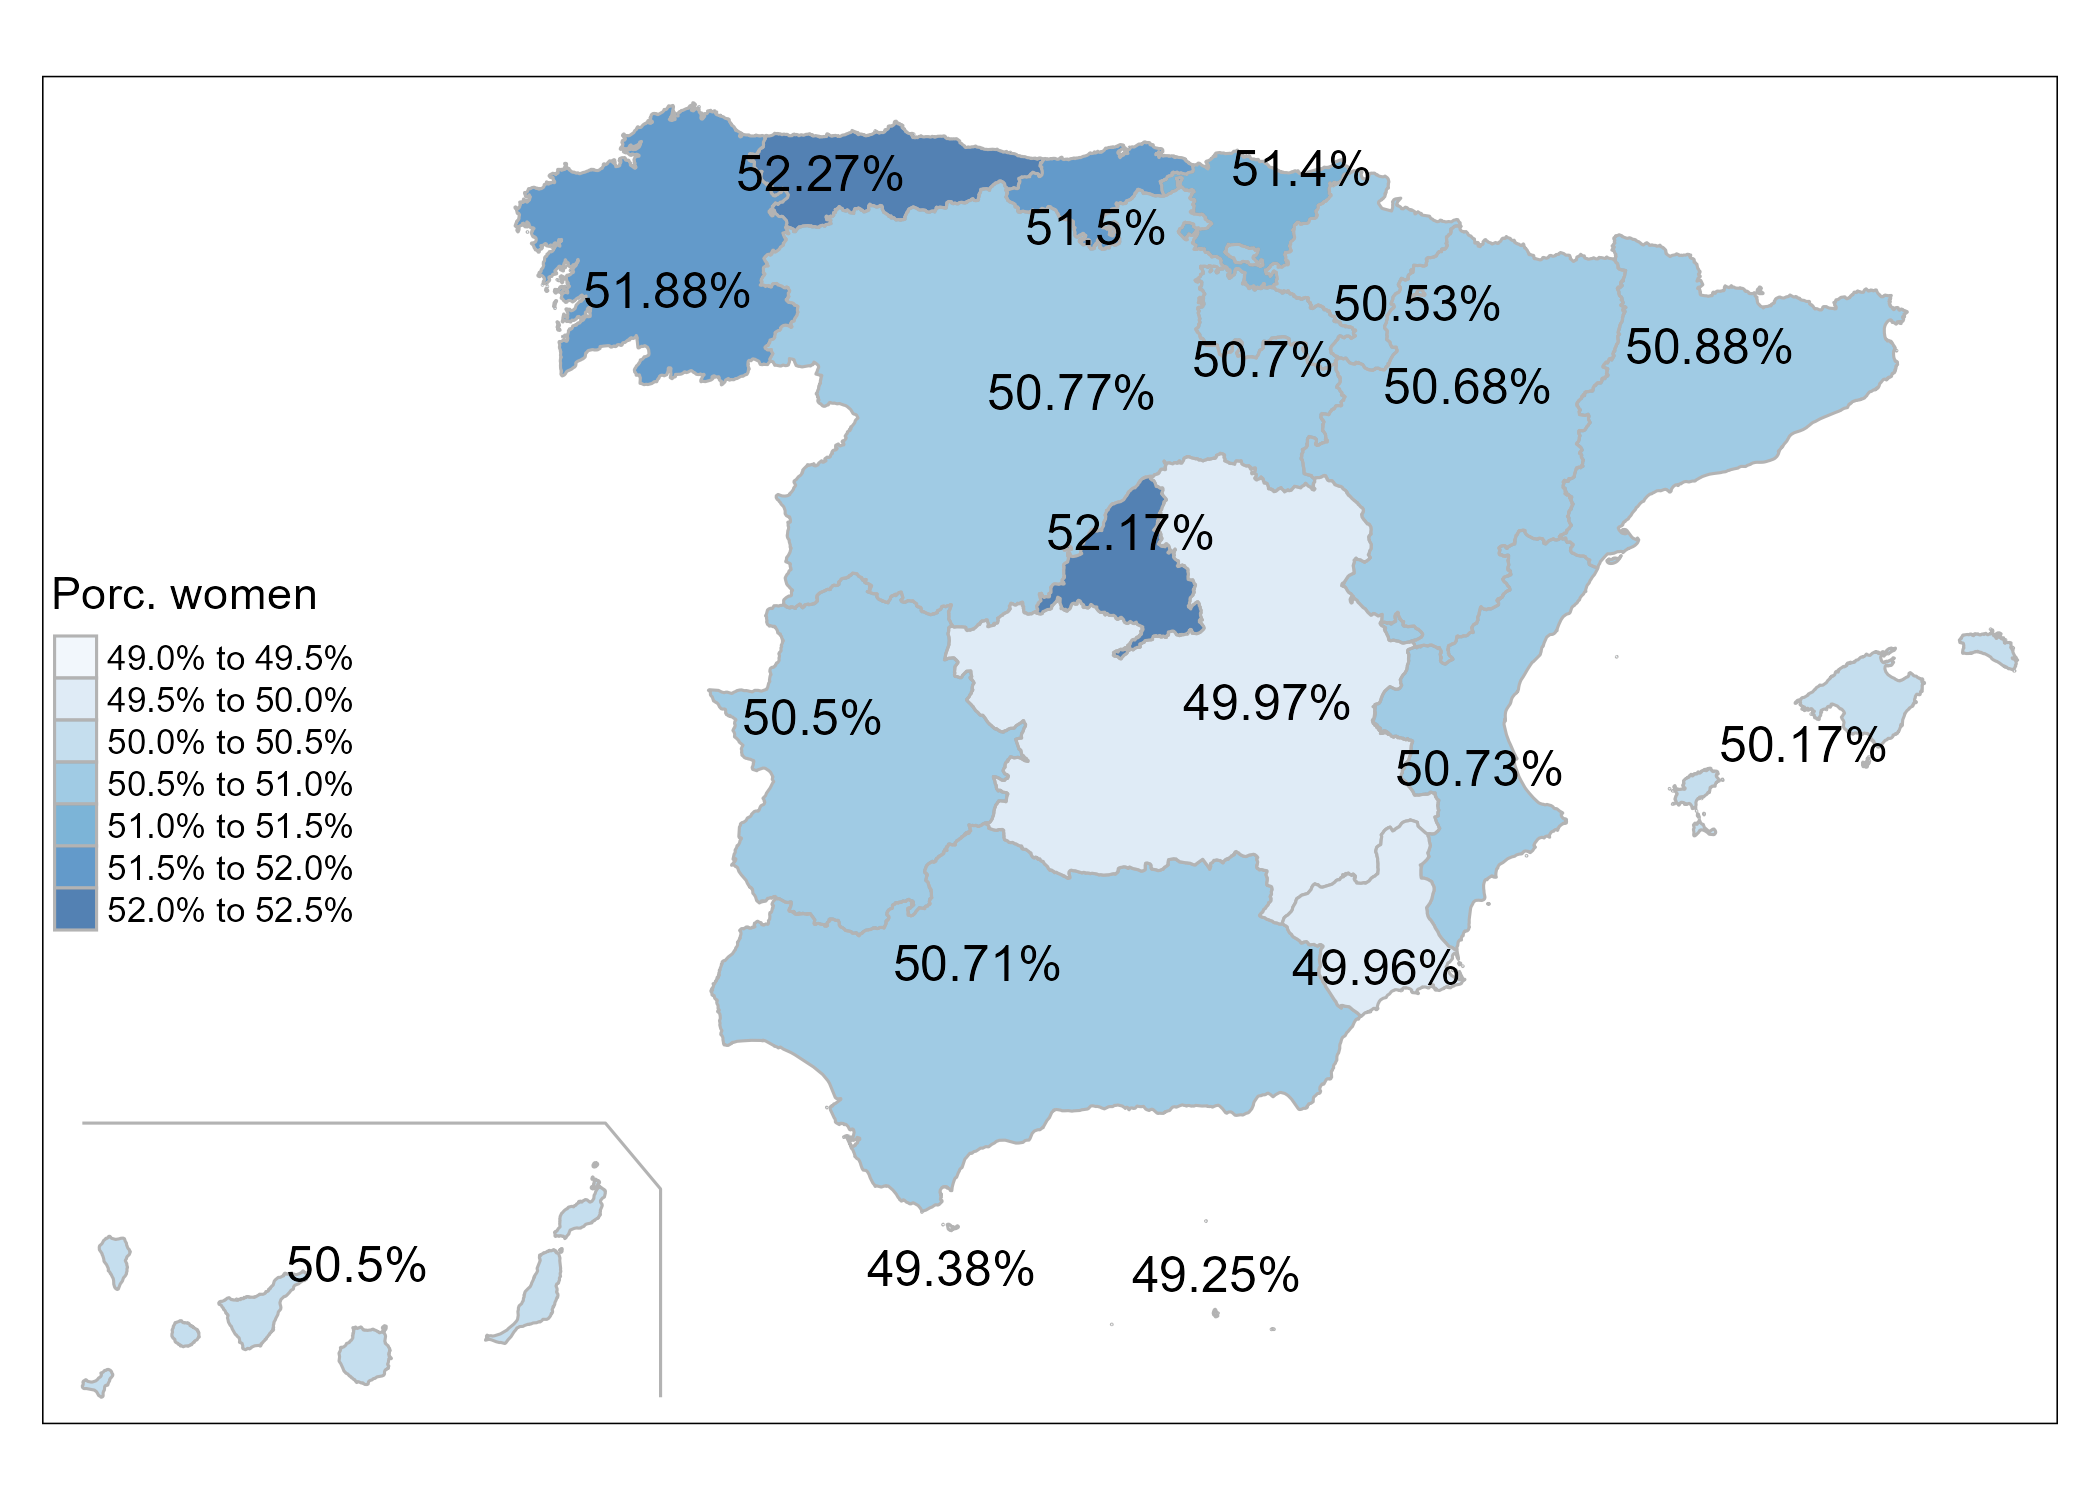
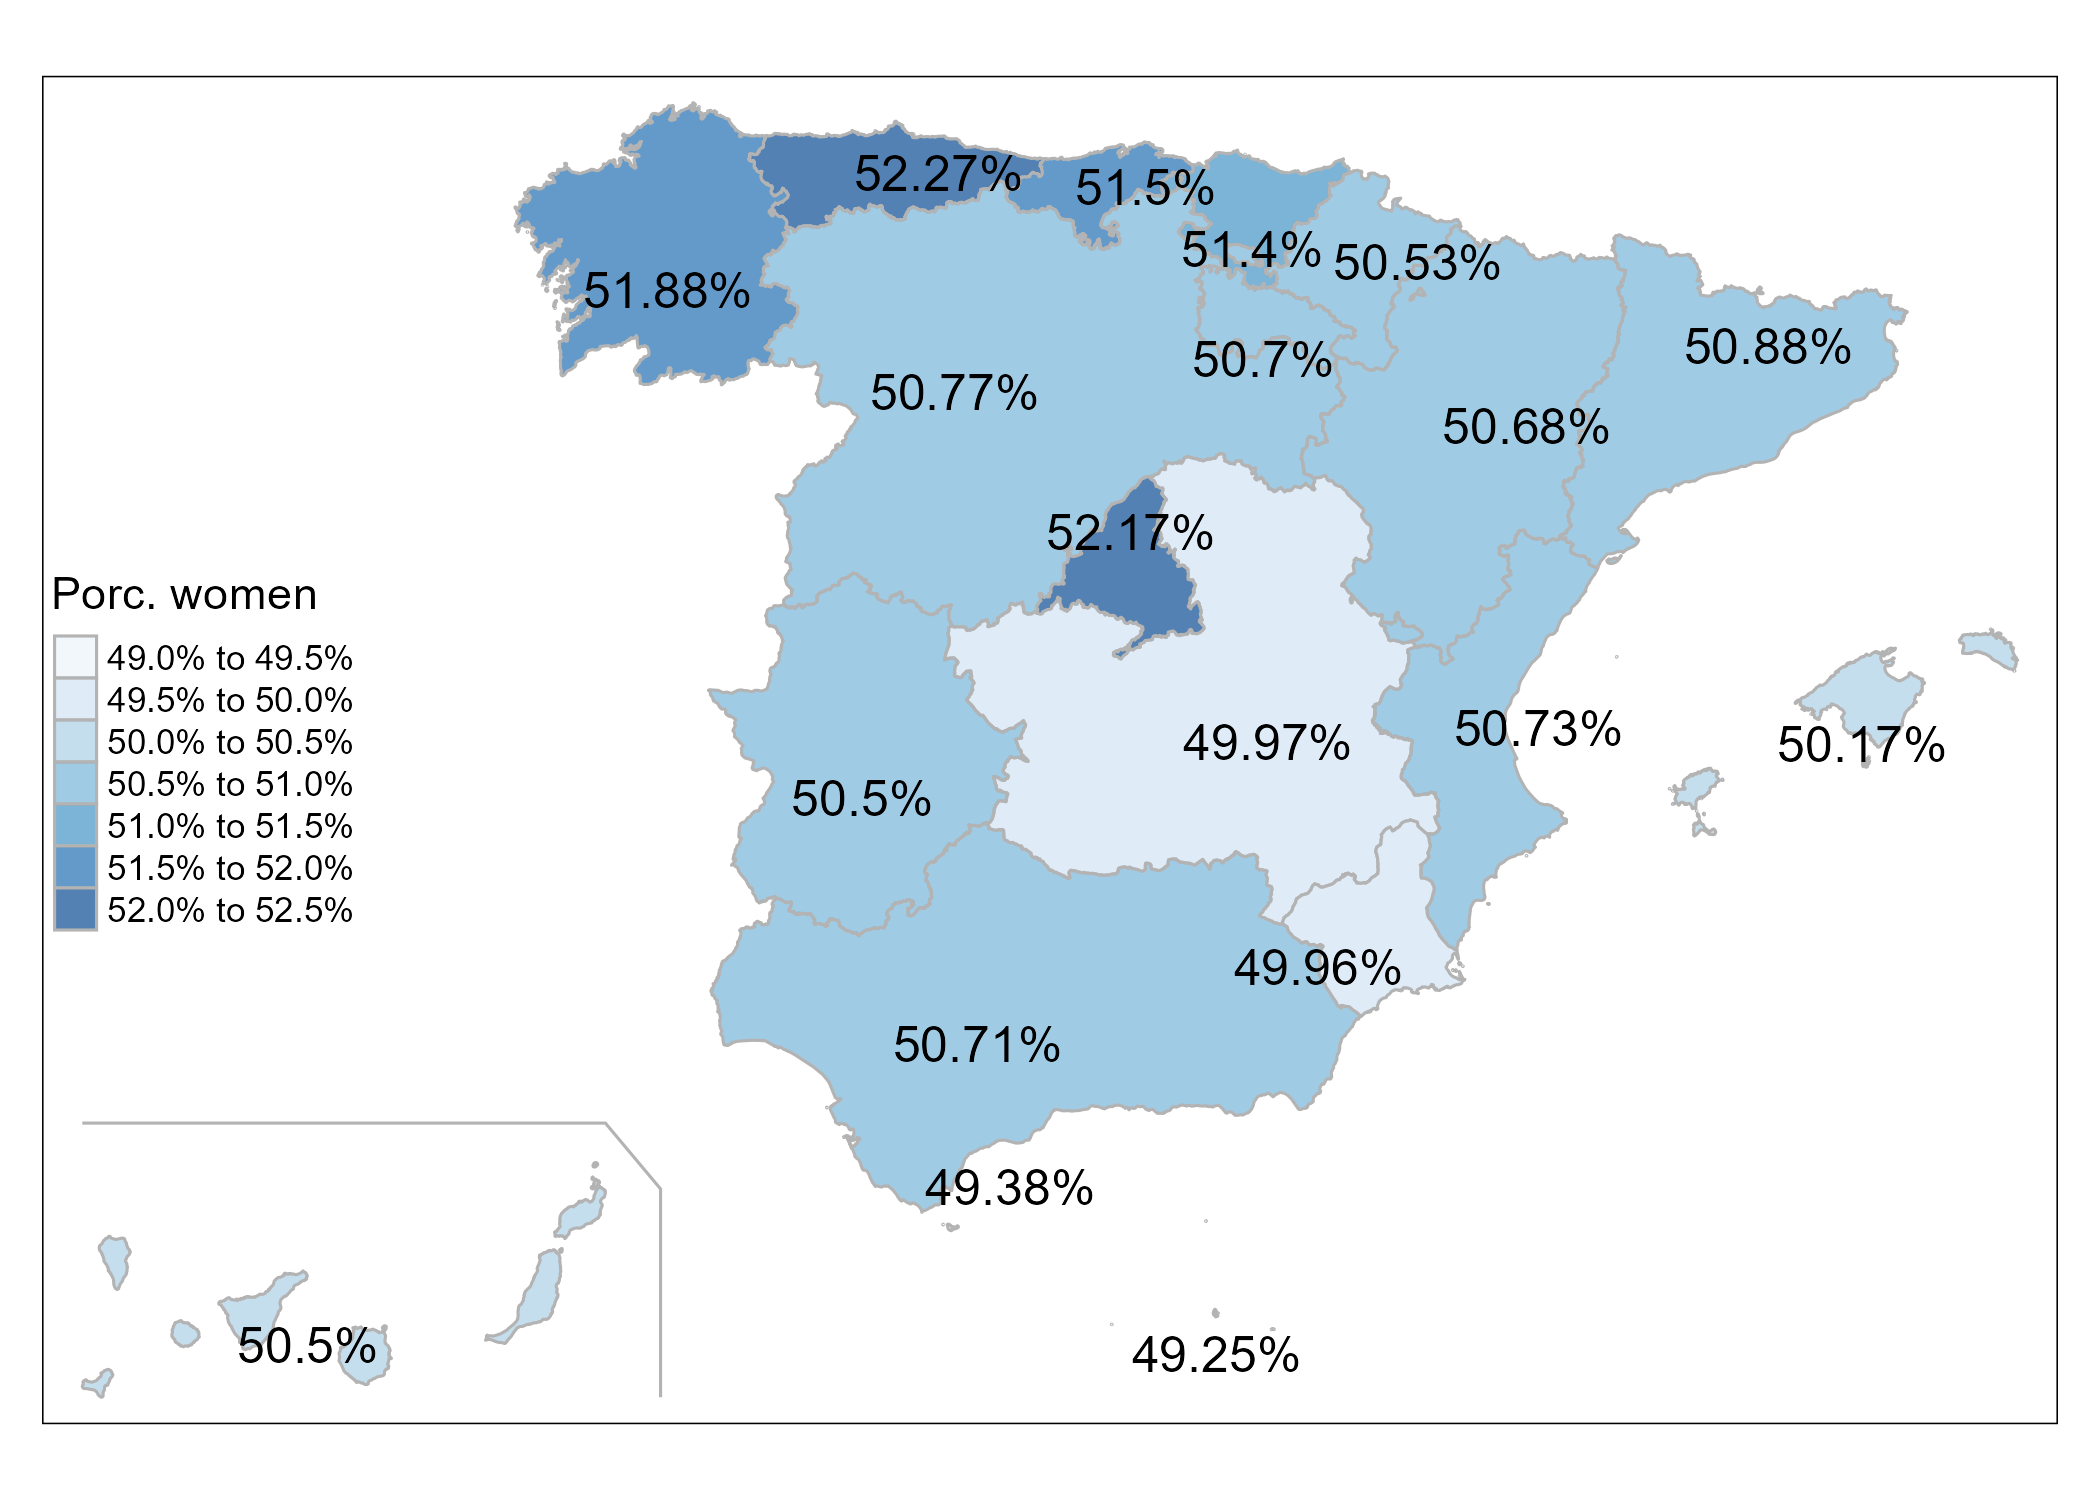
Bump to 2.3.0

diff --git a/NEWS.md b/NEWS.md
@@ -1,6 +1,6 @@
-# mapSpain (development version)
+# mapSpain 0.2.2
 
--   Migrate examples to `tmap`
+-   Migrate examples, vignettes and README to `tmap`
 -   `esp_dict_region_code()` works with mixed casings (e.g: `esp_dict_region_code("aLbacEte", destination = "cpro")`).
 
 # mapSpain 0.2.1
